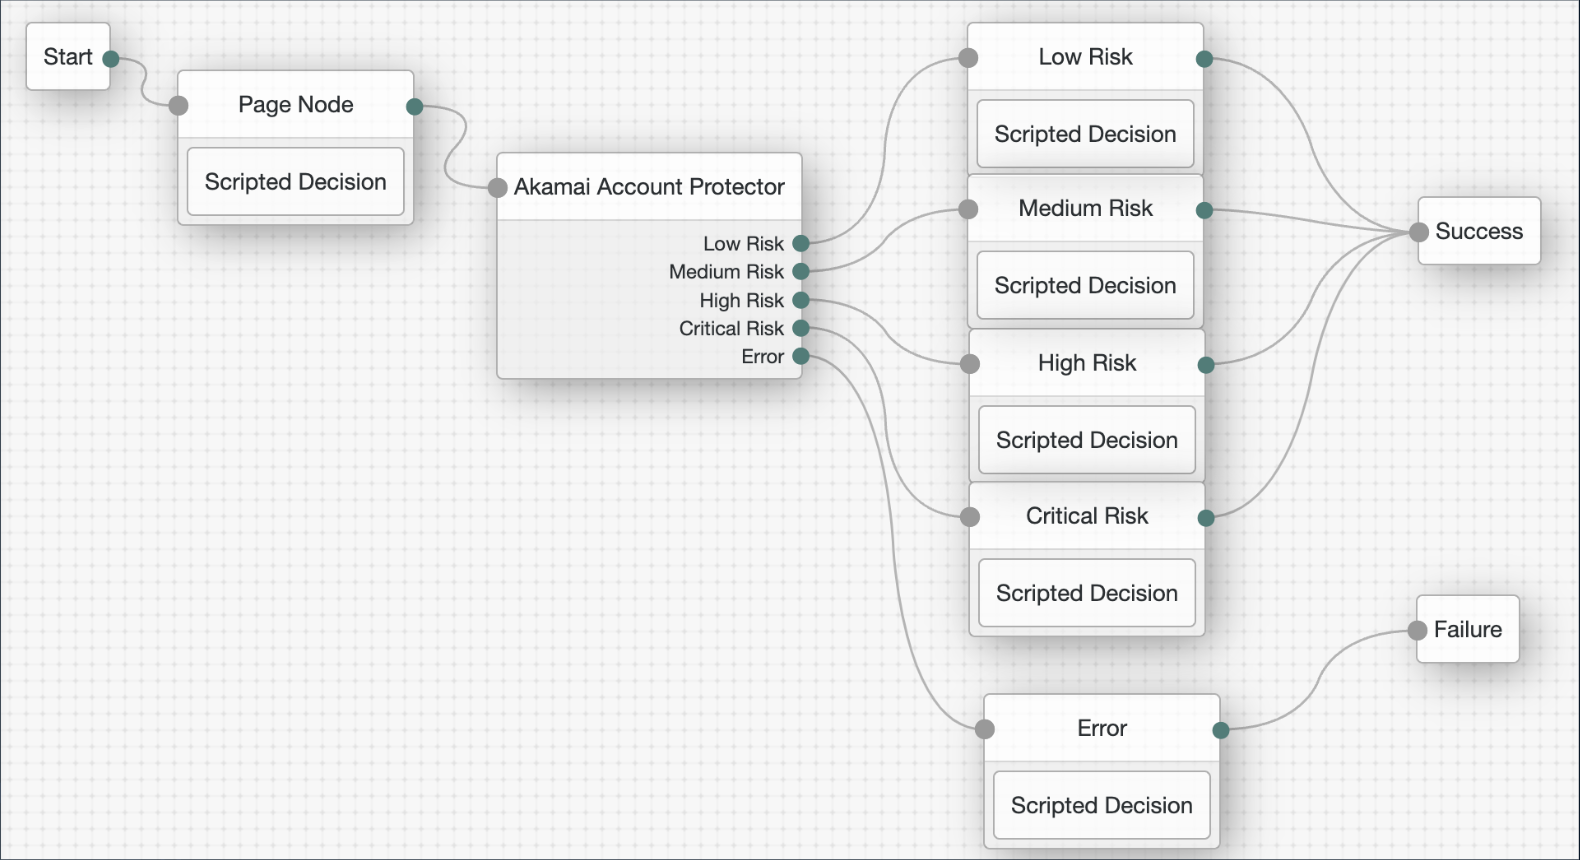
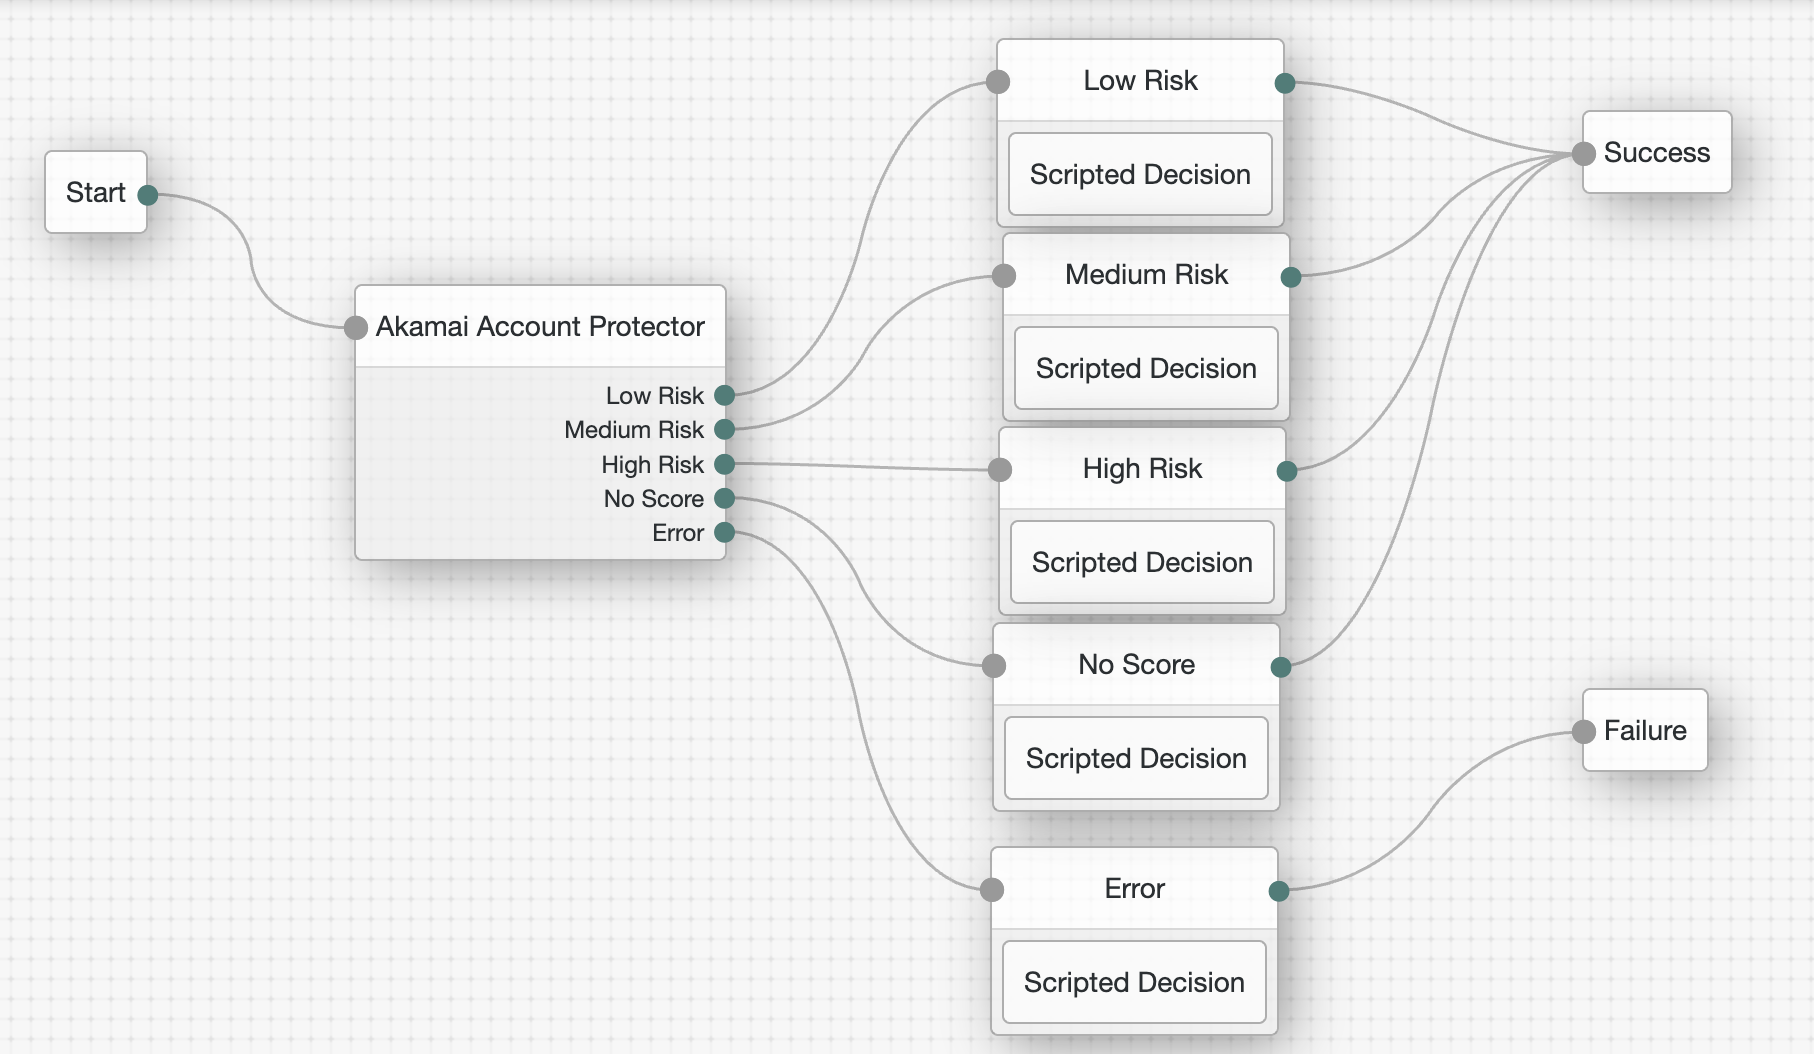
Updated documentation

diff --git a/src/main/java/org/forgerock/am/marketplace/akamaiaccountprotector/AkamaiAccountProtectorNode.java b/src/main/java/org/forgerock/am/marketplace/akamaiaccountprotector/AkamaiAccountProtectorNode.java
@@ -48,23 +48,31 @@ public class AkamaiAccountProtectorNode implements Node {
      */
     public interface Config {
         /**
+         * Shared state attribute containing High Limit Value
+         *
+         * @return The High Limit Value shared state attribute
+         */
+        @Attribute(order = 100, requiredValue = true)
+        default Integer highValue() {
+            return 50;
+        }
+
+        /**
          * Shared state attribute containing Medium Limit Value
          *
          * @return The Medium Limit Value shared state attribute
          */
         @Attribute(order = 200, requiredValue = true)
         default Integer mediumValue() {
-            return 50;
+            return 25;
         }
-
-
 
         /**
          * Shared state attribute to enable saving Akamai header.
          *
          * @return True if the Akamai header should be saved to shared state; false otherwise.
          */
-        @Attribute(order = 500)
+        @Attribute(order = 300)
         default boolean saveAkamaiHeader() {
             return false;
         }
@@ -90,7 +98,7 @@ public class AkamaiAccountProtectorNode implements Node {
             // Capture the header value
             List<String> akamaiUserRiskHeader = context.request.headers.get("Akamai-User-Risk");
 
-            if(akamaiUserRiskHeader != null) {
+            if(akamaiUserRiskHeader != null && !akamaiUserRiskHeader.isEmpty()) {
 
                 // Split header at the semicolon delimiters
                 String[] akamaiHeader = akamaiUserRiskHeader.get(0).split(";");

diff --git a/src/main/java/org/forgerock/am/marketplace/akamaiaccountprotector/AkamaiAccountProtectorPlugin.java b/src/main/java/org/forgerock/am/marketplace/akamaiaccountprotector/AkamaiAccountProtectorPlugin.java
@@ -52,7 +52,7 @@ import static java.util.Arrays.asList;
  */
 
 public class AkamaiAccountProtectorPlugin extends AbstractNodeAmPlugin {
-    protected static final String CURRENT_VERSION = "0.0.12";
+    protected static final String CURRENT_VERSION = "0.0.17";
     protected static final String LOG_APPENDER = "[Version: " + CURRENT_VERSION + "][Marketplace]";
     private static final Logger logger = LoggerFactory.getLogger(AkamaiAccountProtectorPlugin.class);
     private final String LOGGER_PREFIX = "[AkamaiAccountProtectorPlugin]" + AkamaiAccountProtectorPlugin.LOG_APPENDER;

diff --git a/docs/tree_node/README.md b/docs/tree_node/README.md
@@ -52,20 +52,14 @@ You must set up the following before using the Akamai Account Protector node:
   </thead>
 
   <tr>
-    <td>Low Risk Threshold</td>
-      <td>The maximum score for a low risk assessment. Scores up to this value are categorized as Low risk.
-      </td>
+    <td>High Risk Threshold</td>
+    <td>The maximum score for a High risk assessment. Scores above Medium and up to this value are categorized as High risk. Any score above this value are considered Critical risk.
+    </td>
   </tr>
 
   <tr>
     <td>Medium Risk Threshold</td>
     <td>The maximum score for a medium risk assessment. Scores above Low and up to this value are categorized as Medium risk.
-    </td>
-  </tr>
-
-  <tr>
-    <td>High Risk Threshold</td>
-    <td>The maximum score for a High risk assessment. Scores above Medium and up to this value are categorized as High risk. Any score above this value are considered Critical risk.
     </td>
   </tr>
 
@@ -88,7 +82,7 @@ The node writes the Akamai-User-Risk HTTP request header value to transient stat
 
 `High Risk` Risk score equates to a high risk assessment.
 
-`Critical Risk` Risk score equates to a critical risk assessment.
+`No Score` Akamai-User-Risk header is empty.
 
 `Error` There was an error during the verification process.
 
